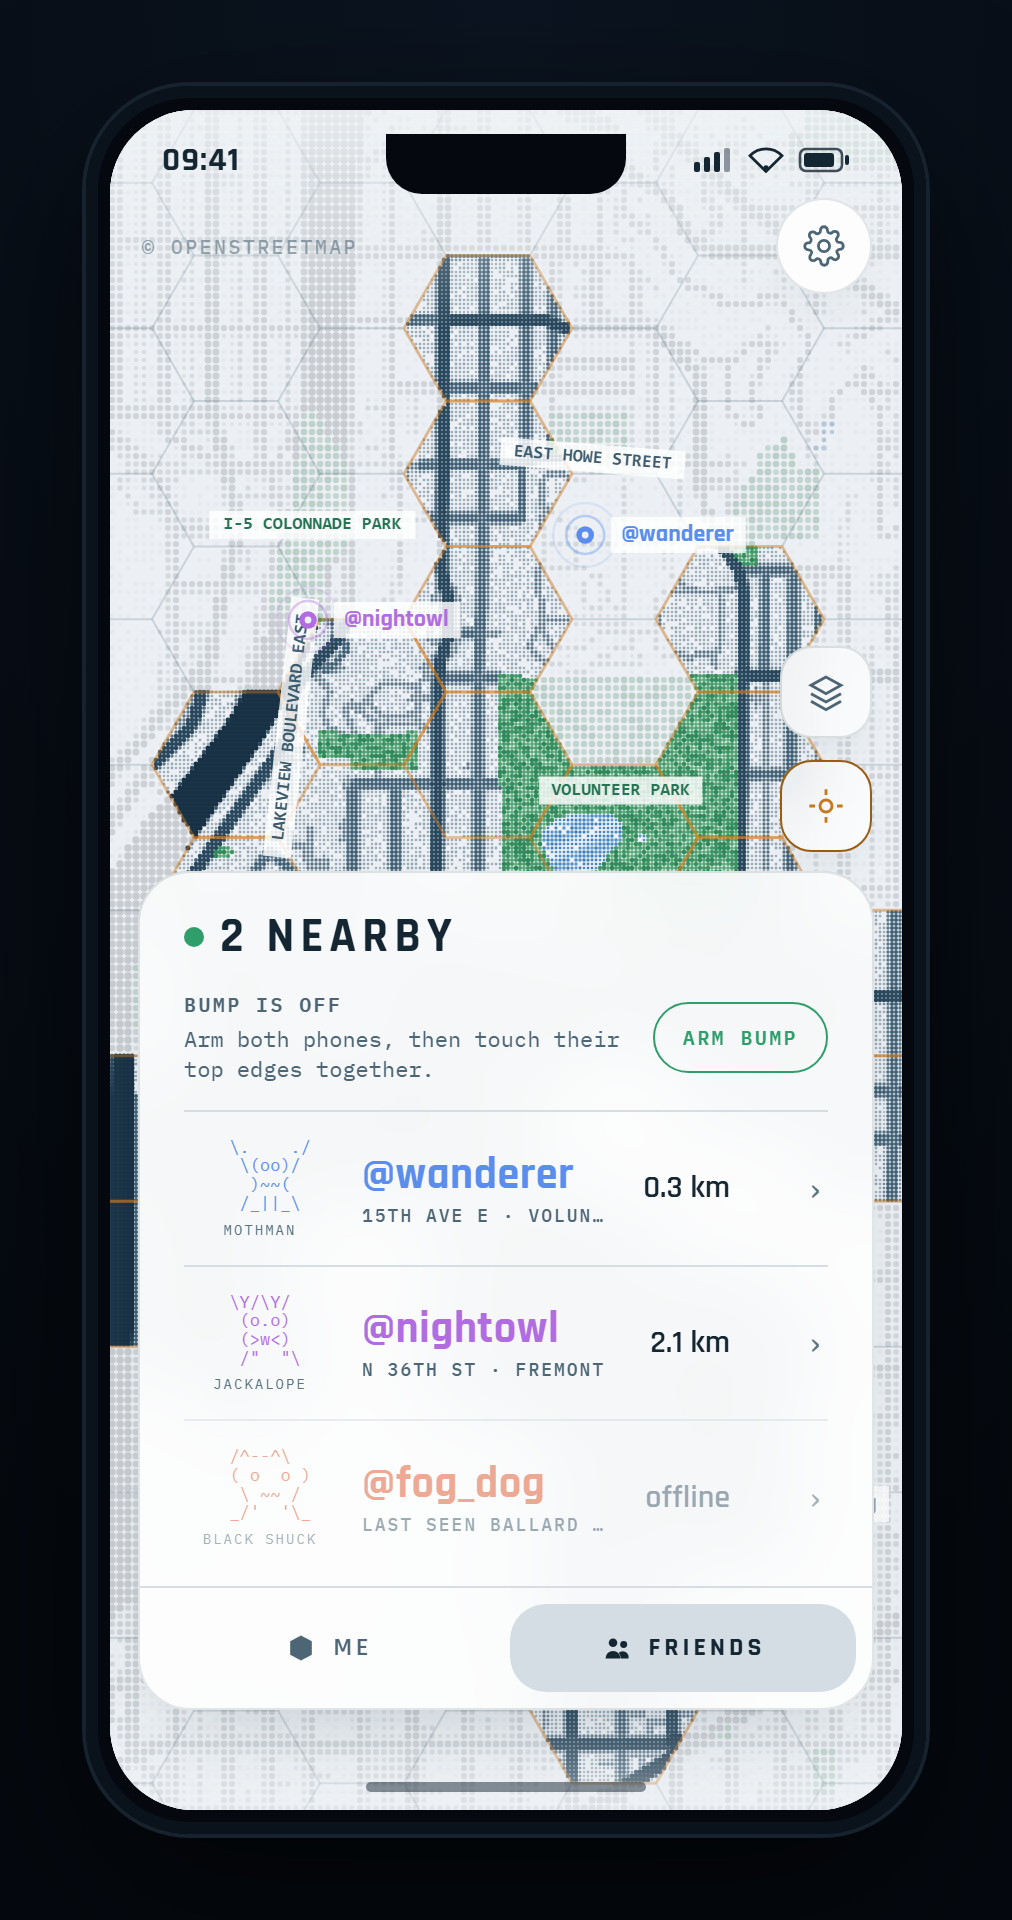
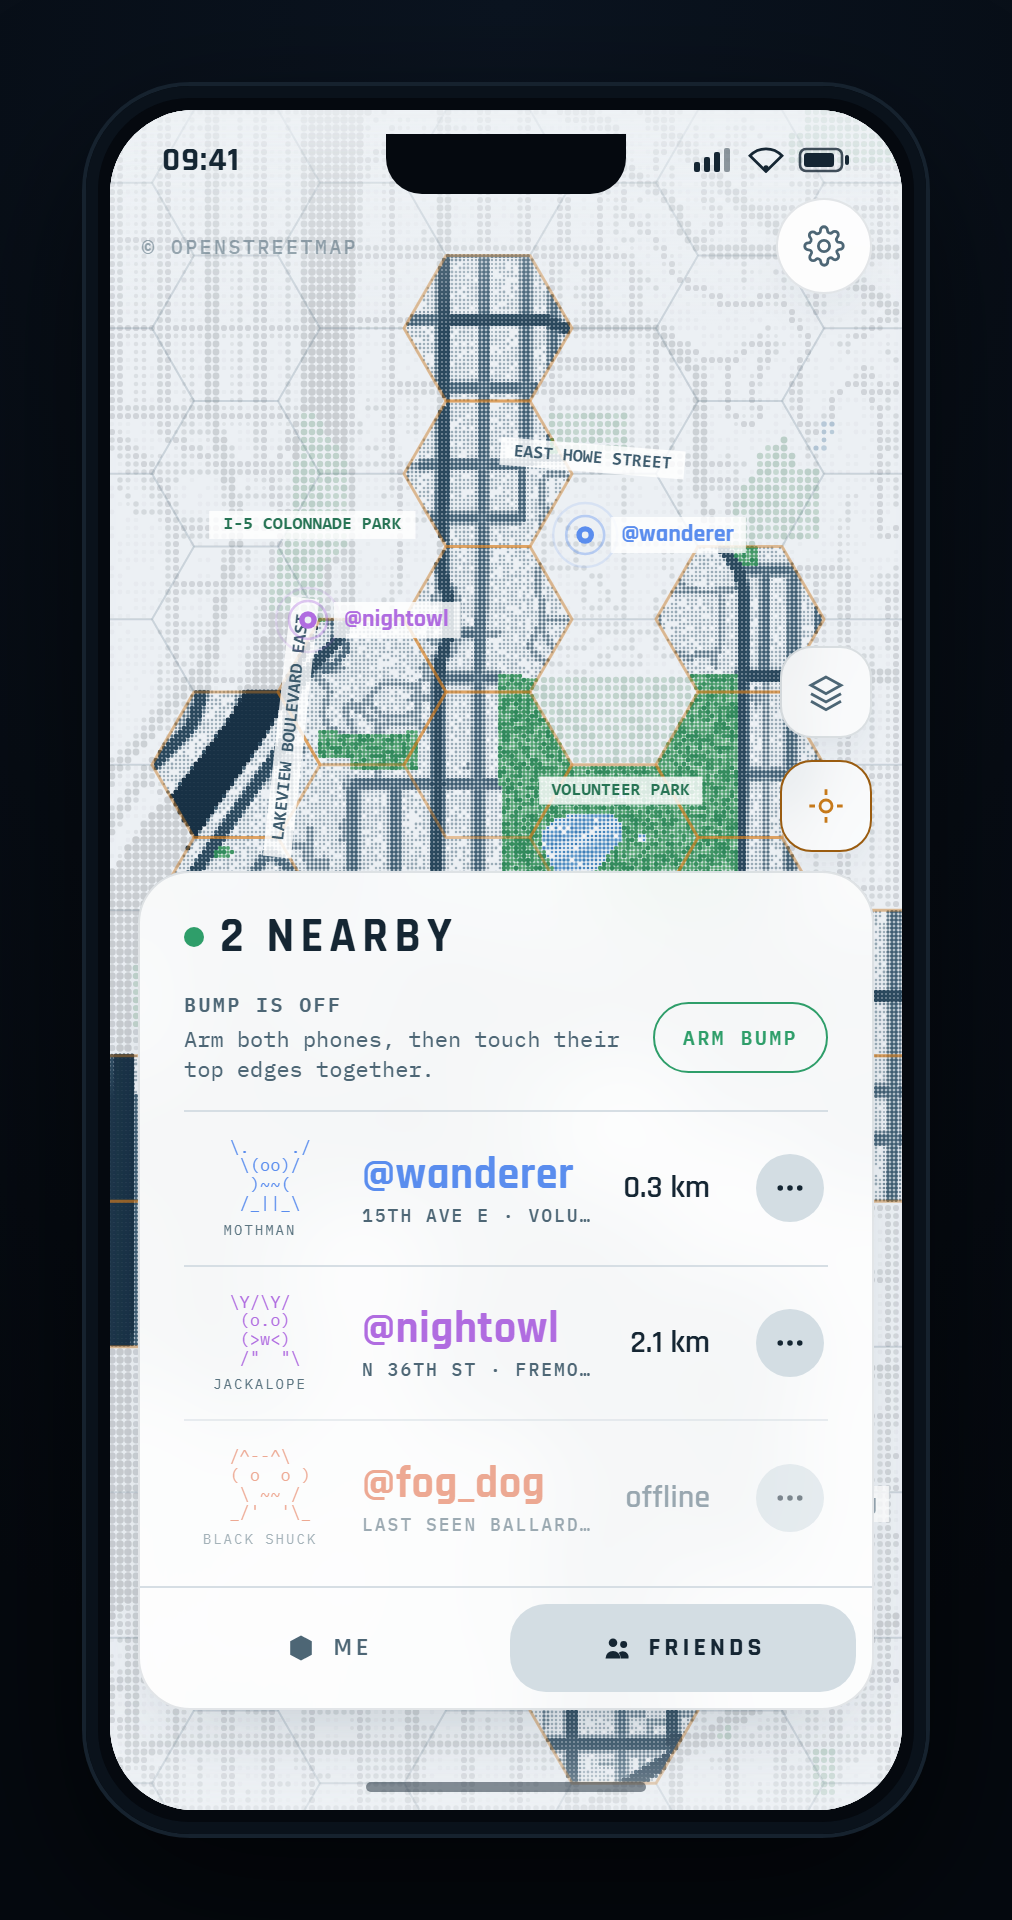
Make friend management a real target, not a hairline chevron
Removing a friend was never actually removed -- FriendProfileSheet still
has the confirm-then-remove flow, and removeFriend() is wired all the way
down to pool.removeFriend. The problem was the door: the only way into
that sheet was a 15px steel chevron at the end of a roster row, which
read as decoration rather than a control. It was reported as "we got rid
of the ability to remove a friend", which is the same thing from the
outside.

That sheet is the whole management surface for a person -- identity,
retained 48h trail, location sharing toggle, view-on-map, and the one
destructive act in the product. It now opens from a filled seg circle
with an ellipsis glyph: platform-standard "more actions", 34px, ink on
seg, sitting at the end of each row. No new accent colour, so the
one-accent rule holds.

The accessibility label moves from "Open @x's profile" to "Manage @x"
with a hint listing what is behind it, because "profile" undersold a
screen that can stop sharing your location and delete the friendship.

Mock and both friends renders follow; DESIGN.md's friend-profile bullet
described the chevron as law.

Copilot-Session: ab5e9f58-49cc-4807-a33e-f1b60e4064be

diff --git a/src/features/map/components/friends-island.tsx b/src/features/map/components/friends-island.tsx
@@ -162,19 +162,29 @@ function FriendRow({
           {trailing}
         </Text>
       </Pressable>
-      {/* Two targets, two questions: the row asks "where are they", the chevron
-          asks "who are they". */}
+      {/* Two targets, two questions: the row asks "where are they", this one
+          asks "who are they, and what do I want to do about it".
+
+          It is a filled target with a "more" glyph rather than a hairline
+          chevron because everything destructive or consequential lives behind
+          it — sharing, the retained trail, and removing the friend entirely.
+          As a faint chevron it read as decoration, and people concluded the app
+          had no way to remove anyone. */}
       <Pressable
-        accessibilityLabel={`Open ${friend.handle}'s profile`}
+        accessibilityHint="Profile, location sharing, trail and remove"
+        accessibilityLabel={`Manage ${friend.handle}`}
         accessibilityRole="button"
         hitSlop={8}
         onPress={() => onOpenProfile(friend.id)}
-        style={({ pressed }) => [styles.chevron, { opacity: pressed ? 0.55 : 1 }]}
+        style={({ pressed }) => [
+          styles.manage,
+          { backgroundColor: chrome.seg, opacity: pressed ? 0.55 : 1 },
+        ]}
       >
         <SymbolView
-          name={{ ios: 'chevron.right', android: 'chevron_right', web: 'chevron_right' }}
-          size={15}
-          tintColor={chrome.steel}
+          name={{ ios: 'ellipsis', android: 'more_horiz', web: 'more_horiz' }}
+          size={18}
+          tintColor={chrome.ink}
         />
       </Pressable>
     </View>
@@ -241,12 +251,13 @@ const styles = StyleSheet.create({
     minWidth: 0,
     paddingVertical: Spacing.two,
   },
-  chevron: {
+  manage: {
     alignItems: 'center',
+    borderRadius: 17,
+    height: 34,
     justifyContent: 'center',
-    minHeight: 44,
-    paddingLeft: Spacing.three,
-    width: 32,
+    marginLeft: Spacing.two,
+    width: 34,
   },
   avatar: {
     width: 72,

diff --git a/docs/design/mock_chrome.html b/docs/design/mock_chrome.html
@@ -133,8 +133,13 @@ body{display:flex;align-items:center;justify-content:center;min-height:100vh;
 .fmid .l{font-family:'IBM Plex Mono';font-weight:500;font-size:9px;letter-spacing:1px;color:var(--steel);margin-top:2px;text-transform:uppercase;white-space:nowrap;overflow:hidden;text-overflow:ellipsis;}
 .frt .d{font-family:'Rajdhani';font-weight:600;font-size:16px;line-height:19px;color:var(--ink);white-space:nowrap;}
 .frt .d.dim{color:var(--steel);}
-/* the row asks "where are they"; the chevron asks "who are they" */
-.chev{width:32px;display:flex;align-items:center;justify-content:flex-end;color:var(--steeld);font-size:15px;}
+/* The row asks "where are they". This asks "who are they, and what do I want to
+   do about it" — it opens the full-screen management sheet, where sharing, the
+   retained trail and REMOVE FRIEND live. A filled target, not a hairline
+   chevron: as a chevron it read as decoration and the remove action was
+   effectively invisible. */
+.manage{width:34px;height:34px;flex:none;margin-left:8px;border-radius:17px;background:var(--seg);
+  display:flex;align-items:center;justify-content:center;color:var(--ink);}
 
 /* ===== SETTINGS: a sheet pulled over the map, not a tab ===== */
 .sheetmodal{position:absolute;inset:0;z-index:11;display:none;border-radius:42px;overflow:hidden;}
@@ -721,7 +726,7 @@ function renderRoster(host) {
         <div class="l">${loc}</div>
       </div>
       <div class="frt">${right}</div>
-      <div class="chev">›</div>
+      <div class="manage"><svg width="18" height="18" viewBox="0 0 24 24" fill="currentColor"><circle cx="5.5" cy="12" r="1.85"/><circle cx="12" cy="12" r="1.85"/><circle cx="18.5" cy="12" r="1.85"/></svg></div>
     </div>`;
   }
   host.innerHTML = h + '</div>';

diff --git a/src/features/map/components/__tests__/friends-island.test.tsx b/src/features/map/components/__tests__/friends-island.test.tsx
@@ -102,13 +102,13 @@ describe('FriendsIsland', () => {
     expect(onSelect).toHaveBeenCalledWith('endpoint-mothman');
   });
 
-  it('opens the profile from the chevron, not the row', () => {
+  it('opens friend management from its own target, not the row', () => {
     const { onSelect, onOpenProfile } = render([mothman]);
 
-    const chevron = renderer.root.findByProps({
-      accessibilityLabel: "Open @wanderer's profile",
+    const manage = renderer.root.findByProps({
+      accessibilityLabel: 'Manage @wanderer',
     });
-    act(() => chevron.props.onPress());
+    act(() => manage.props.onPress());
 
     expect(onOpenProfile).toHaveBeenCalledWith('endpoint-mothman');
     expect(onSelect).not.toHaveBeenCalled();
@@ -122,11 +122,11 @@ describe('FriendsIsland', () => {
     });
     expect(row.props.accessibilityState).toEqual({ disabled: true });
     expect(row.props.disabled).toBe(true);
-    // The chevron stays live: you can still read who they are.
-    const chevron = renderer.root.findByProps({
-      accessibilityLabel: "Open @nightowl's profile",
+    // Management stays live: removing a friend must not depend on their GPS.
+    const manage = renderer.root.findByProps({
+      accessibilityLabel: 'Manage @nightowl',
     });
-    expect(chevron.props.disabled).toBeUndefined();
+    expect(manage.props.disabled).toBeUndefined();
   });
 
   it('points an empty atlas at pairing instead of showing a bare list', () => {

diff --git a/DESIGN.md b/DESIGN.md
@@ -146,9 +146,13 @@ Indigo/cyan field · **coral accent `#F0657F`** · **default friend green `#63D0
   because the lit tab below already names the view. _Shipped without the shared-ground bar:_
   the app has no overlap metric yet, and the declutter law says a fabricated number is worse
   than no number.
-- **Friend profile:** big cryptid hero, sharing state, retained 48-hour location timeline,
-  and a **"View trail on map"** CTA. It is reached from the chevron on a roster row — the
-  row itself asks "where are they", the chevron asks "who are they".
+- **Friend profile is also friend _management_:** big cryptid hero, sharing state, retained
+  48-hour location timeline, a **"View trail on map"** CTA, and **Remove friend** behind an
+  inline confirm. It is reached from a **filled `seg` circle with a "more" glyph** at the end
+  of a roster row — the row asks "where are they", that target asks "who are they, and what
+  do I want to do about it". It is deliberately _not_ a hairline chevron: as a chevron it read
+  as decoration and people concluded the app had no way to remove anyone. Removal is the one
+  destructive act in the product, so the door to it has to look like a door.
 - **Pairing lives in the FRIENDS tab, not on a screen.** Arming is one deliberate tap on
   ARM BUMP; after that, two phones touching is the whole gesture. Opening the tab used to
   arm the radio implicitly, which was wrong twice over: it fired an OS Bluetooth prompt
